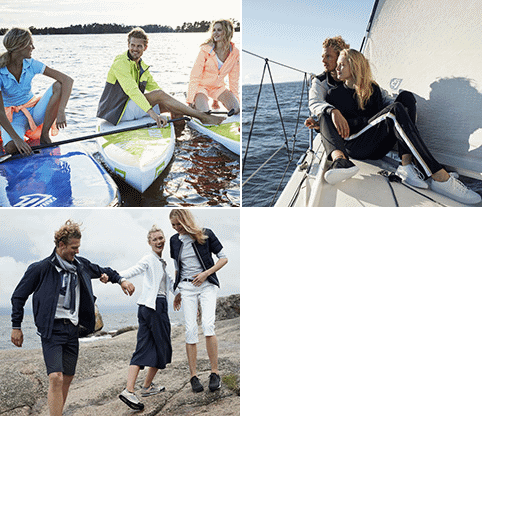
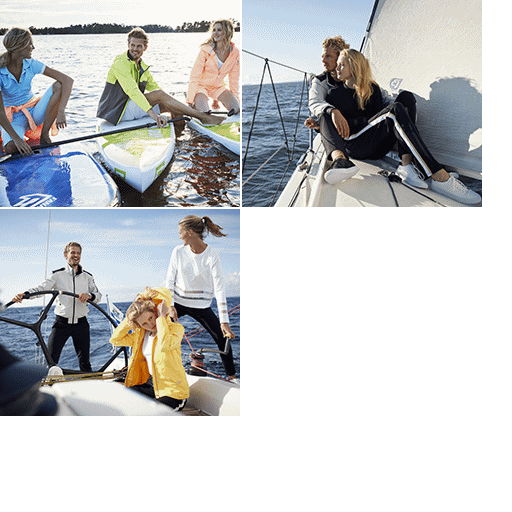
Update

diff --git a/banners/luhta_0218/gismeteo/240x400/240x400_2.js b/banners/luhta_0218/gismeteo/240x400/240x400_2.js
@@ -24,7 +24,7 @@ lib.ssMetadata = [
 
 
 
-(lib._3 = function() {
+(lib._4 = function() {
 	this.spriteSheet = ss["240x400_2_atlas_"];
 	this.gotoAndStop(2);
 }).prototype = p = new cjs.Sprite();
@@ -51,26 +51,26 @@ function getMCSymbolPrototype(symbol, nominalBounds, frameBounds) {
 	this.initialize(mode,startPosition,loop,{});
 
 	// Слой 1
-	this.instance = new lib._3();
+	this.instance = new lib._2();
 	this.instance.parent = this;
-	this.instance.setTransform(-120,-103.5);
+	this.instance.setTransform(-120,-104);
 
 	this.timeline.addTween(cjs.Tween.get(this.instance).wait(1));
 
-}).prototype = getMCSymbolPrototype(lib.sssss, new cjs.Rectangle(-120,-103.5,240,207), null);
+}).prototype = getMCSymbolPrototype(lib.sssss, new cjs.Rectangle(-120,-104,240,207), null);
 
 
 (lib.sss = function(mode,startPosition,loop) {
 	this.initialize(mode,startPosition,loop,{});
 
 	// Слой 1
-	this.instance = new lib._2();
+	this.instance = new lib._4();
 	this.instance.parent = this;
-	this.instance.setTransform(-120,-103.5);
+	this.instance.setTransform(-120,-104);
 
 	this.timeline.addTween(cjs.Tween.get(this.instance).wait(1));
 
-}).prototype = getMCSymbolPrototype(lib.sss, new cjs.Rectangle(-120,-103.5,240,207), null);
+}).prototype = getMCSymbolPrototype(lib.sss, new cjs.Rectangle(-120,-104,240,207), null);
 
 
 (lib.ss = function(mode,startPosition,loop) {
@@ -298,7 +298,7 @@ function getMCSymbolPrototype(symbol, nominalBounds, frameBounds) {
 }).prototype = getMCSymbolPrototype(lib._5, new cjs.Rectangle(-8,-9.2,16.1,18.5), null);
 
 
-(lib._4 = function(mode,startPosition,loop) {
+(lib._4_1 = function(mode,startPosition,loop) {
 	this.initialize(mode,startPosition,loop,{});
 
 	// Слой 1
@@ -308,10 +308,10 @@ function getMCSymbolPrototype(symbol, nominalBounds, frameBounds) {
 
 	this.timeline.addTween(cjs.Tween.get(this.shape).wait(1));
 
-}).prototype = getMCSymbolPrototype(lib._4, new cjs.Rectangle(-9.3,-9.2,18.7,18.5), null);
+}).prototype = getMCSymbolPrototype(lib._4_1, new cjs.Rectangle(-9.3,-9.2,18.7,18.5), null);
 
 
-(lib._3_1 = function(mode,startPosition,loop) {
+(lib._3 = function(mode,startPosition,loop) {
 	this.initialize(mode,startPosition,loop,{});
 
 	// Слой 1
@@ -321,7 +321,7 @@ function getMCSymbolPrototype(symbol, nominalBounds, frameBounds) {
 
 	this.timeline.addTween(cjs.Tween.get(this.shape).wait(1));
 
-}).prototype = getMCSymbolPrototype(lib._3_1, new cjs.Rectangle(-7.1,-9.2,14.4,18.5), null);
+}).prototype = getMCSymbolPrototype(lib._3, new cjs.Rectangle(-7.1,-9.2,14.4,18.5), null);
 
 
 (lib._2_1 = function(mode,startPosition,loop) {
@@ -438,14 +438,14 @@ p.nominalBounds = new cjs.Rectangle(-278,-8.9,379.2,388.4);
 	this.timeline.addTween(cjs.Tween.get(this.instance_9).wait(4).to({y:-22.2},5,cjs.Ease.get(1)).to({y:-17.2},5,cjs.Ease.get(-1)).wait(166));
 
 	// 4
-	this.instance_10 = new lib._4();
+	this.instance_10 = new lib._4_1();
 	this.instance_10.parent = this;
 	this.instance_10.setTransform(22.8,-17.2);
 
 	this.timeline.addTween(cjs.Tween.get(this.instance_10).wait(3).to({y:-22.2},5,cjs.Ease.get(1)).to({y:-17.2},5,cjs.Ease.get(-1)).wait(167));
 
 	// 3
-	this.instance_11 = new lib._3_1();
+	this.instance_11 = new lib._3();
 	this.instance_11.parent = this;
 	this.instance_11.setTransform(5.8,-17.2);
 
@@ -601,7 +601,7 @@ lib.properties = {
 	color: "#FFFFFF",
 	opacity: 1.00,
 	manifest: [
-		{src:"images/240x400_2_atlas_.png?1518079052496", id:"240x400_2_atlas_"}
+		{src:"images/240x400_2_atlas_.png?1518083784787", id:"240x400_2_atlas_"}
 	],
 	preloads: []
 };

diff --git a/banners/luhta_0218/gismeteo/240x400/240x400_2.html b/banners/luhta_0218/gismeteo/240x400/240x400_2.html
@@ -14,7 +14,7 @@
 <title>240x400_2</title>
 <!-- write your code here -->
 <script src="https://code.createjs.com/createjs-2015.11.26.min.js"></script>
-<script src="240x400_2.js?1518079052521"></script>
+<script src="240x400_2.js?1518083784813"></script>
 <script>
 var canvas, stage, exportRoot, anim_container, dom_overlay_container, fnStartAnimation;
 function init() {
